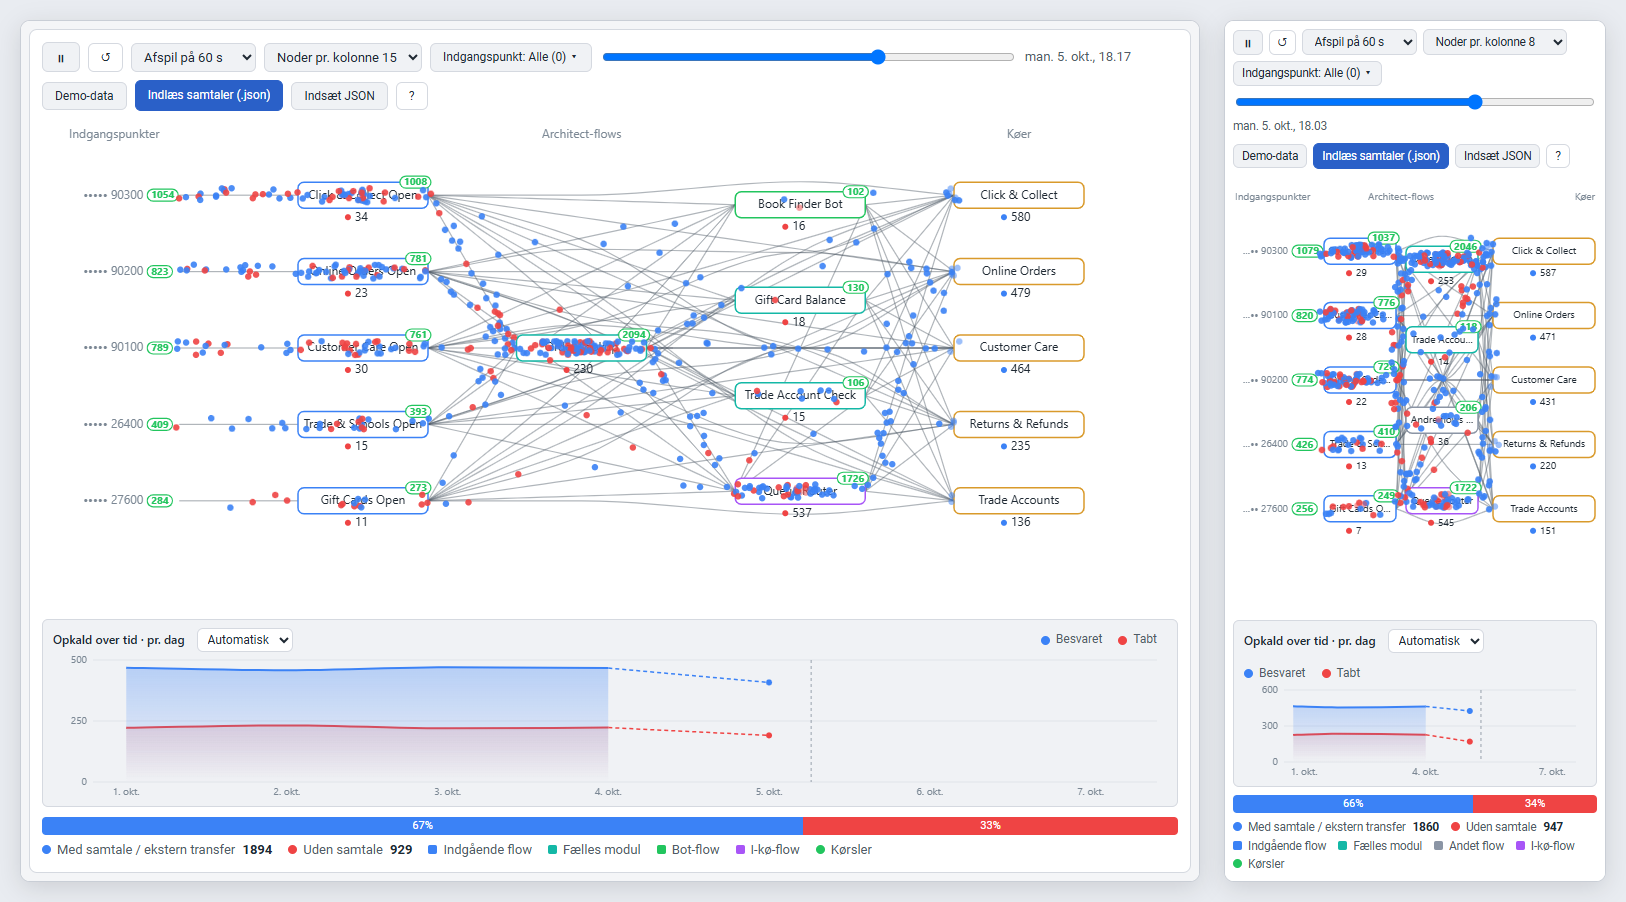
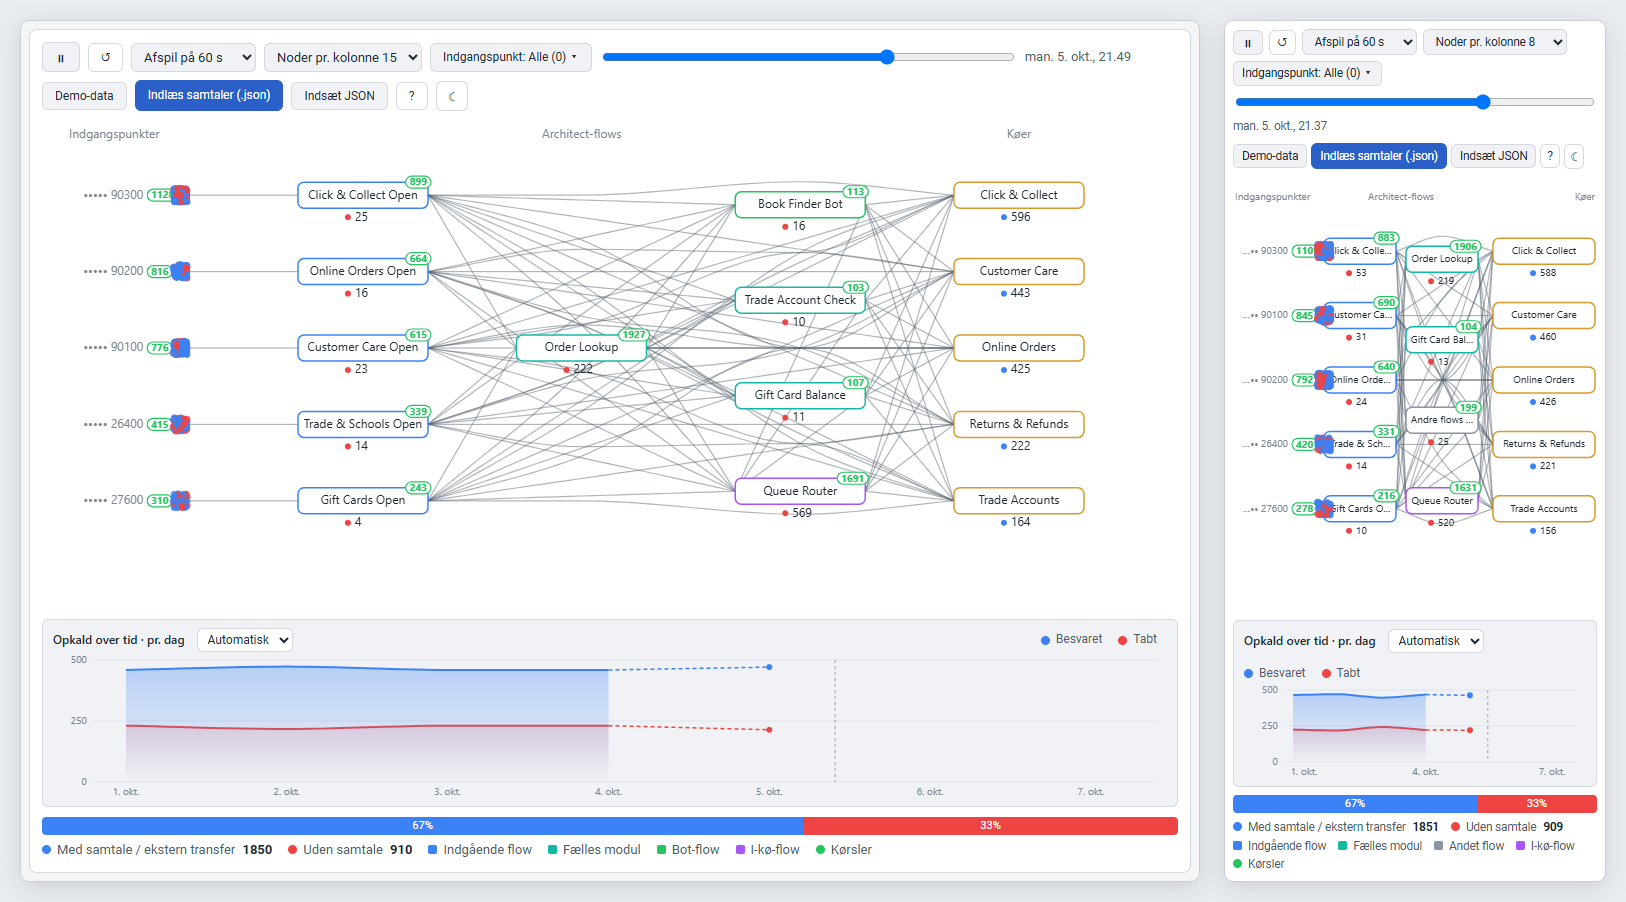
Narrow layout: keep ? and the theme button on the toolbar row; README screenshots with the theme button

diff --git a/css/base.css b/css/base.css
@@ -66,6 +66,8 @@ button:disabled { opacity: .55; cursor: default; }
 .tr-narrow { padding: 8px; gap: 8px; }
 .tr-narrow .tr-row { gap: 6px; }
 .tr-narrow .tr-bar select, .tr-narrow .btn { padding: 4px 8px; font-size: 11.5px; }
+.tr-narrow .tr-row + .tr-row { column-gap: 4px; }   /* room for ? and the theme button next to the load buttons */
+.tr-narrow [data-tr="help"], .tr-narrow [data-tr="theme"] { padding: 4px 6px; }
 .tr-narrow .tr-bar input[type=range] { order: 10; flex-basis: 100%; }
 .tr-narrow .tr-clock { order: 11; min-width: 0; font-size: 11.5px; }
 .tr-narrow .tr-who { order: 12; flex-basis: 100%; max-width: none; }
